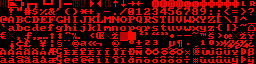
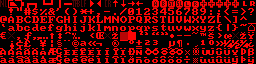
Updated font

Changed region(s): [[0.5938, 0.0, 0.9688, 0.0938]]

diff --git a/assets/images/VBJaEFont.c b/assets/images/VBJaEFont.c
@@ -7,7 +7,7 @@
 //	+ 256 tiles not compressed
 //	Total size: 4096 = 4096
 //
-//	Time-stamp: 2016-10-07, 00:08:20
+//	Time-stamp: 2016-10-29, 23:39:47
 //	Exported by Cearn's GBA Image Transmogrifier, v0.8.6
 //	( http://www.coranac.com/projects/#grit )
 //
@@ -25,13 +25,13 @@ const unsigned int VBJaEFontTiles[1024] __attribute__((aligned(4)))=
 	0x03F000C0,0x00C00FFC,0x00C000C0,0x000000C0,0x00C000C0,0x00C000C0,0x03F00FFC,0x000000C0,
 
 	0x03000000,0x3FFF0F00,0x03000F00,0x00000000,0x00300000,0x3FFF003C,0x0030003C,0x00000000,
-	0x00000000,0x00000000,0x00000000,0x00000000,0x3FBF0FFC,0x3EEF3EEF,0x3EEF3EAF,0x0AA82FFE,
-	0x3FAF0FFC,0x3FAF3EEF,0x3FAF3EEF,0x0AA82FFE,0x3AAB0FFC,0x3EEB3EFB,0x3EEB3EEF,0x0AA82FFE,
-	0x3EEB0FFC,0x3EEB3EFB,0x3AEB3EEF,0x0AA82FFE,0x0FFC0000,0x3FEF3FEF,0x3EAF3FEF,0x0AA82FFE,
-	0x0FFC0000,0x3EEF3FAF,0x3EEF3FAF,0x0AA82FFE,0x03B003F0,0x3AAB3FBF,0x2BBA3FBF,0x02A003F0,
-	0x03F003F0,0x3AAB3FFF,0x2BBA3FBF,0x02A003F0,0x03B003F0,0x3AAB3FBF,0x2BFA3FFF,0x02A003F0,
-	0x03B003F0,0x3ABF3FBF,0x2BBA3FBF,0x02A003F0,0x03B003F0,0x3FAB3FBF,0x2BBA3FBF,0x02A003F0,
-	0x00F00000,0x00F000F0,0x0FF000F0,0x00000000,0x0FF00000,0x3CF03CF0,0x3CF00FF0,0x00000000,
+	0x00000000,0x00000000,0x00000000,0x00000000,0x3F7F0FFC,0x3DDF3DDF,0x3DDF3D5F,0x0AA82FFE,
+	0x3F5F0FFC,0x3F5F3DDF,0x3F5F3DDF,0x0AA82FFE,0x35570FFC,0x3DD73DF7,0x3DD73DDF,0x0AA82FFE,
+	0x3DD70FFC,0x3DD73DF7,0x35D73DDF,0x0AA82FFE,0x0FFC0000,0x3FDF3FDF,0x3D5F3FDF,0x0AA82FFE,
+	0x0FFC0000,0x3DDF3F5F,0x3DDF3F5F,0x0AA82FFE,0x037003F0,0x35573F7F,0x2B7A3F7F,0x02A003F0,
+	0x03B003F0,0x35573FBF,0x2B7A3F7F,0x02A003F0,0x037003F0,0x35573F7F,0x2BBA3FBF,0x02A003F0,
+	0x037003F0,0x356B3F7F,0x177A3F7F,0x02A003F0,0x037003F0,0x3A573F7F,0x2B7A3F7F,0x02A003F0,
+	0x03C00000,0x03C003C0,0x3FC003C0,0x00000000,0x0FF00000,0x3CF03CF0,0x3CF00FF0,0x00000000,
 
 	0x00000000,0x00000000,0x00000000,0x00000000,0x03FC00F0,0x00F003FC,0x000000F0,0x000000F0,
 	0x0F3C0F3C,0x00000F3C,0x00000000,0x00000000,0x0F3C0F3C,0x0F3C3FFF,0x0F3C3FFF,0x00000F3C,
